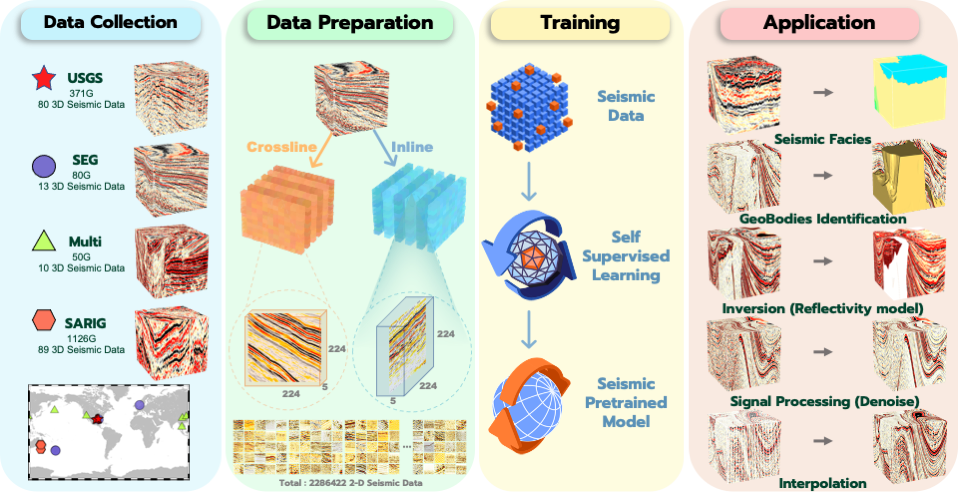
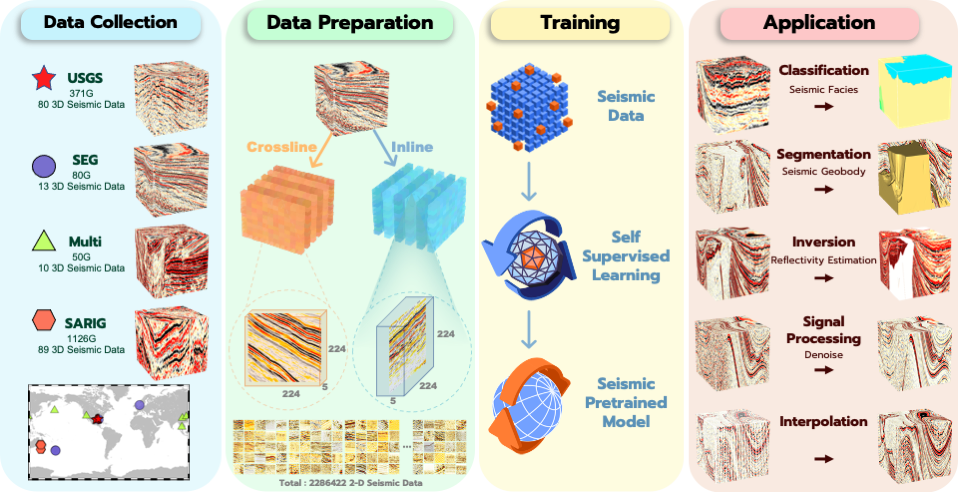
update

diff --git a/README.md b/README.md
@@ -33,8 +33,7 @@
 
 # 🌟 Seismic Foundation Model (SFM)
 
-
- As shown in this workflow figure, SFM can provide services for downstream tasks including seismic image classification and geobody identification. Additionally, we test the model's performance in regression tasks, specifically in signal processing (i.e. denoising), inversion (i.e. reflectivity estimation), and interpolation.
+ As shown in this workflow figure, we test the Seismic Foundation Model's performance in segmentation tasks and regression tasks, specifically in classification (i.e. seismic facies), segmentaion (i.e. seismic geobody), signal processing (i.e. denoising), inversion (i.e. reflectivity estimation), and interpolation.
 
 This is a PyTorch/GPU implementation of the paper [Seismic Foundation Model](https://arxiv.org/abs/2111.06377):
 ```
@@ -52,9 +51,9 @@ This is a PyTorch/GPU implementation of the paper [Seismic Foundation Model](htt
 
 ## &#x1F449; Pre-train & Fine-tune Code
 
-The pre-training instruction is in [PRETRAIN.md](SFM-Pretrain/README.md).
+* The pre-training instruction is in [PRETRAIN.md](SFM-Pretrain/README.md).
 
-The Fine-tuning instruction is in [FINETUNE.md](SFM-Finetune/README.md).
+* The Fine-tuning instruction is in [FINETUNE.md](SFM-Finetune/README.md).
 
 
 ## :rocket: Model Zoo & Data Release
